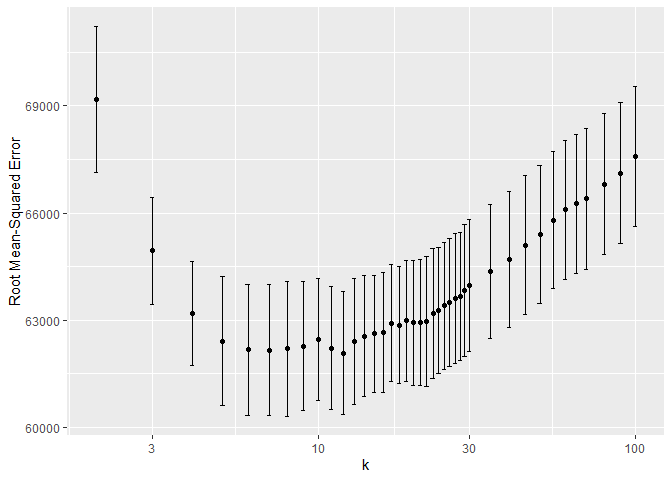
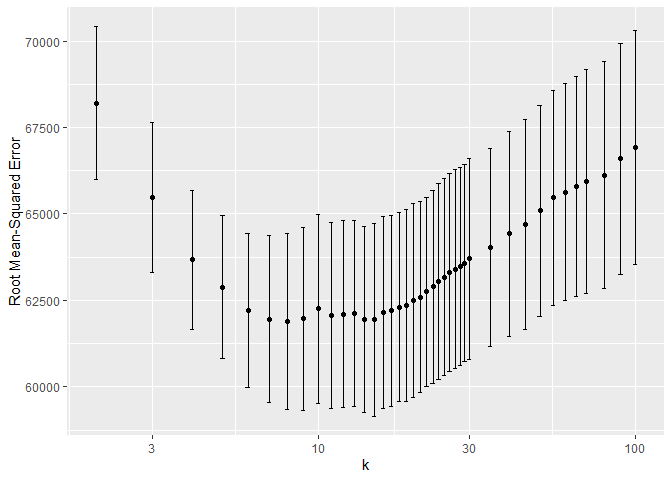
final final changes

diff --git a/Collaborative/Homework2.md b/Collaborative/Homework2.md
@@ -1,3 +1,7 @@
+# Homework 2
+
+Patrick Massey, Harrison Snell, Brandon Williams
+
 ## Problem 1
 
 ![](Homework2_files/figure-markdown_strict/unnamed-chunk-2-1.png)
@@ -27,7 +31,7 @@ the data set in a linear regression. It includes the variables lot size,
 age, living area, bedrooms, fireplaces, bathrooms, rooms, heating
 method, fuel method, and central air. This model performed consistently
 the worst. In this iteration, for example, it achieved an average
-out-of-sample mean-squared error of $66634.
+out-of-sample mean-squared error of $65949.
 
 This is to be expected. Economic intuition indicates that we are likely
 omitting important considerations for house prices, notably land value,
@@ -35,7 +39,7 @@ waterfront access and whether or not it is a new construction. We add
 these to our linear model to improve it, as well as an interaction term
 for lot size and waterfront access.<sup>2</sup> Indeed, we see
 significant improvement in the RMSE. In this iteration, we see a
-mean-squared error of $58583.
+mean-squared error of $58267.
 
 Finally, we attempt to create a KNN model. To begin, we include all
 possible covariates and attempt to identify the value of K neighbors
@@ -44,7 +48,7 @@ the error on the vertical access and the value of K on the horizontal.
 
 ![](Homework2_files/figure-markdown_strict/unnamed-chunk-5-1.png)
 
-The minimum RMSE<sup>3</sup> can be found at k=12 with a RMSE of $62078.
+The minimum RMSE<sup>3</sup> can be found at k=8 with a RMSE of $61880.
 Consistently, across many iterations of train/test splits, the KNN model
 had lower mean-squared errors than our baseline medium model but failed
 to beat the better linear model. It appears that the data available to
@@ -110,7 +114,7 @@ variables in our dataset excluding the arrival date. To generate the
 best possible linear model we utilize the lasso model on all variables
 and interactions. To measure the out of sample performance of our lasso
 model, we use the RMSE. For the small, large and lasso models the RMSE’s
-are 0.2665, 0.2416, 0.2257 respectively. We can see that the lasso model
+are 0.2765, 0.2484, 0.2335 respectively. We can see that the lasso model
 beats the two other models.
 
 ![](Homework2_files/figure-markdown_strict/unnamed-chunk-8-1.png)![](Homework2_files/figure-markdown_strict/unnamed-chunk-8-2.png)
